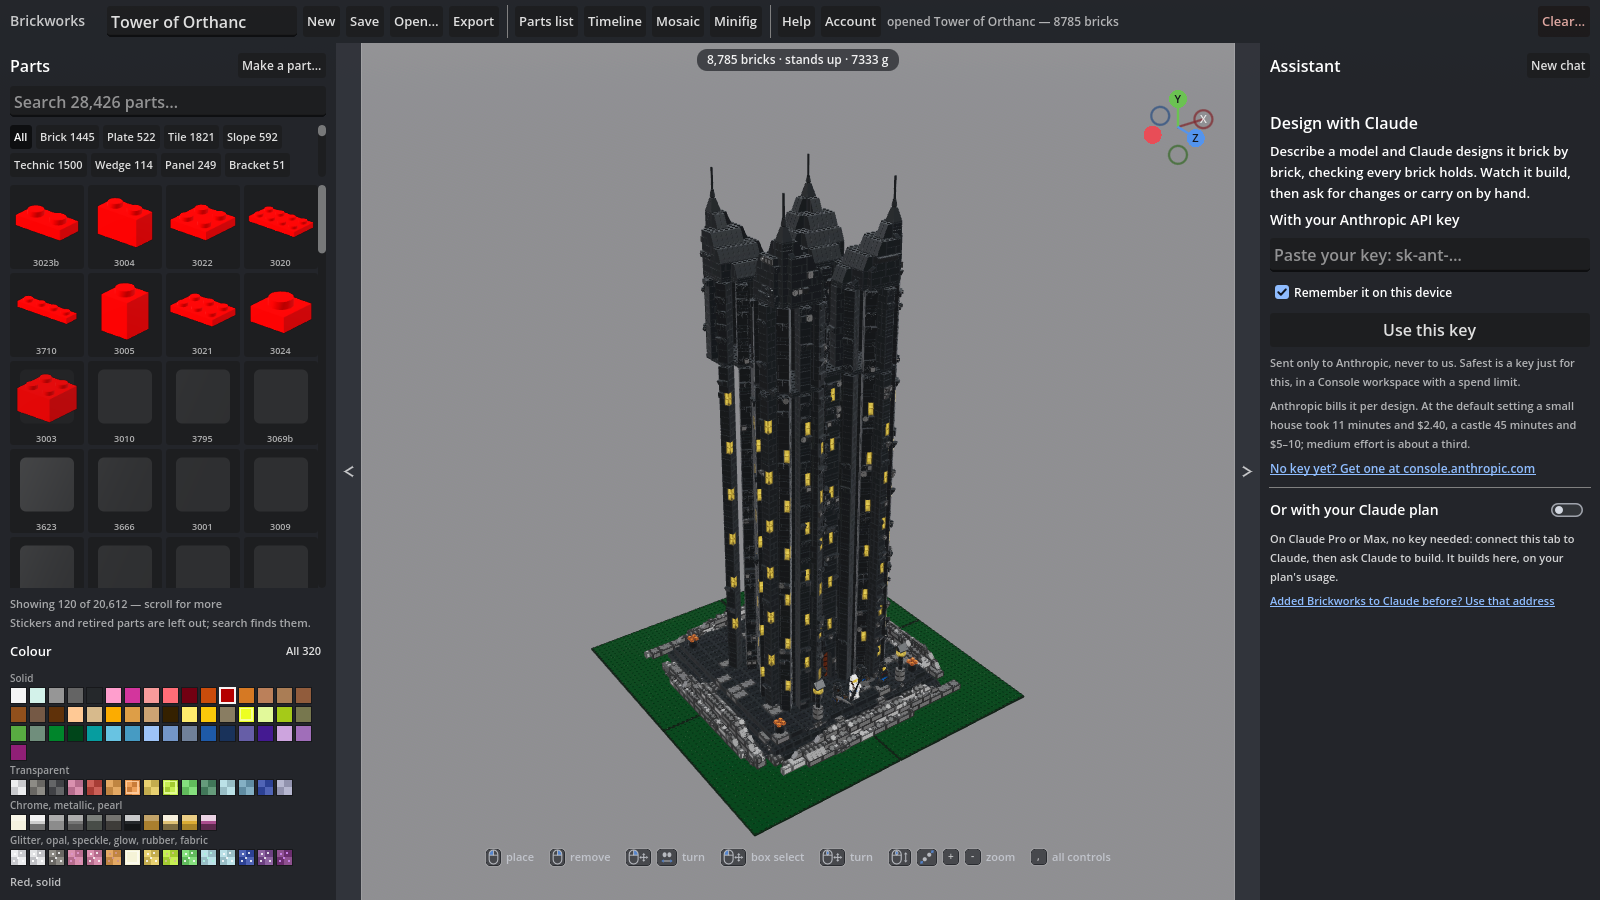
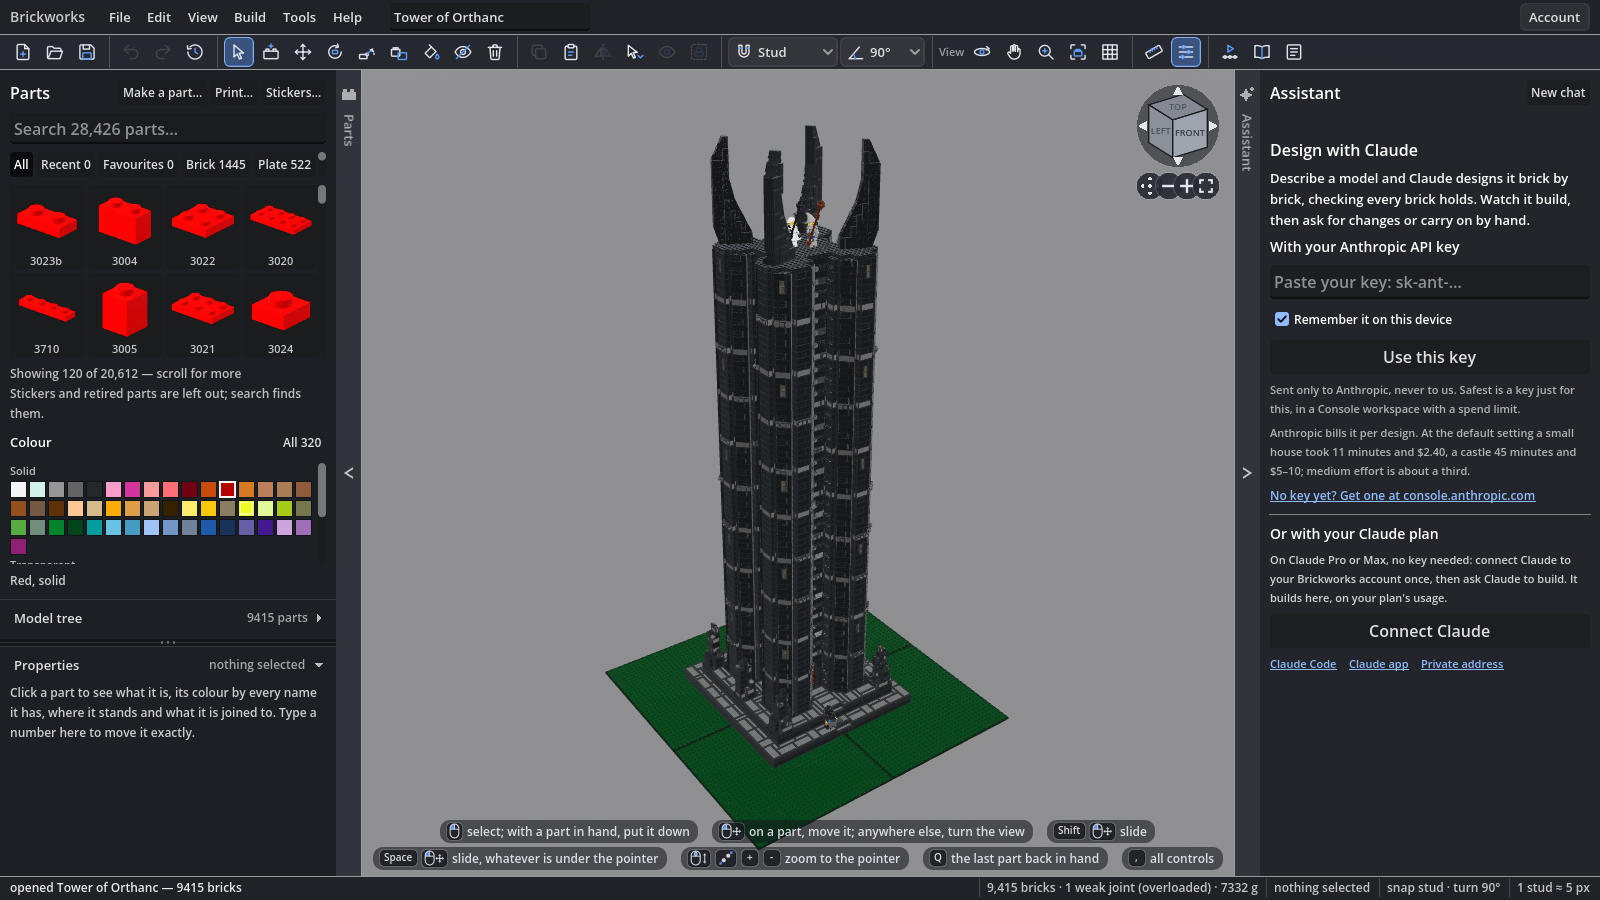
The landing's builder picture is the app as it is now
It showed run 18 in the old row of buttons. It shows run 4 in the CAD
shell: menus, tools, the parts bin with the model tree, the view cube.
And the stat says what was checked, buildable in one piece: the status
bar names one weak joint, so "every one holds" said more than that.

diff --git a/web/index.html b/web/index.html
@@ -437,7 +437,7 @@ footer p { margin: 0 0 8px; max-width: 76ch; }
 
 		<div class="shot">
 			<img src="shot-app.png" width="1600" height="900"
-				alt="The Brickworks builder: the parts panel on the left, the Tower of Orthanc Claude designed — 8,785 bricks, four black spires with lit windows — standing on a green baseplate in the centre, and on the right the panel that starts a design: paste your own API key, or connect Claude on your plan.">
+				alt="The Brickworks builder: menus and a toolbar of tools across the top, the parts bin with the model tree and properties down the left, the Tower of Orthanc Claude designed — 9,415 bricks, a black faceted tower rising to four curved horns — on a green baseplate in the centre with a view cube, and on the right the panel that starts a design: paste your own API key, or connect Claude on your plan.">
 		</div>
 	</div>
 
@@ -505,7 +505,7 @@ footer p { margin: 0 0 8px; max-width: 76ch; }
 			</figure>
 		</div>
 		<div class="stats">
-			<div class="stat"><b>9,415</b><span>parts, and every one holds</span></div>
+			<div class="stat"><b>9,415</b><span>parts, checked buildable in one piece</span></div>
 			<div class="stat"><b>2 min</b><span>from the paragraph to the model</span></div>
 			<div class="stat"><b>7</b><span>furnished floors behind the open back</span></div>
 			<div class="stat"><b>0</b><span>bricks placed by hand</span></div>
